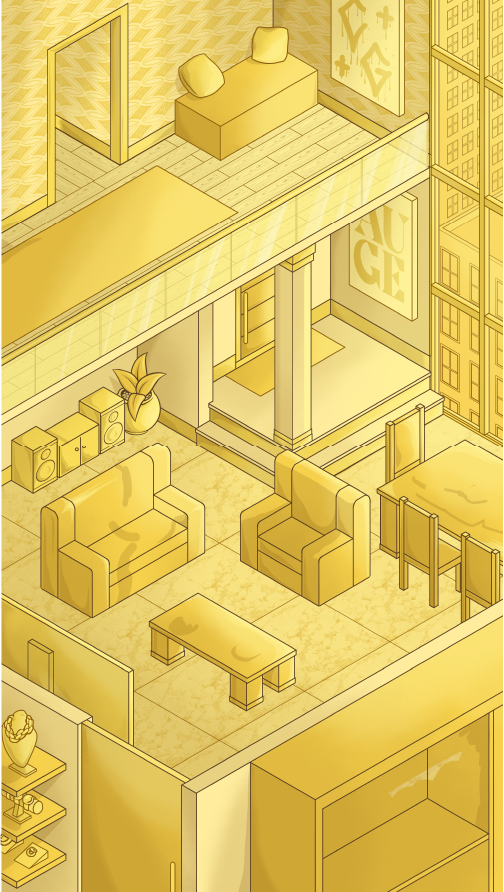
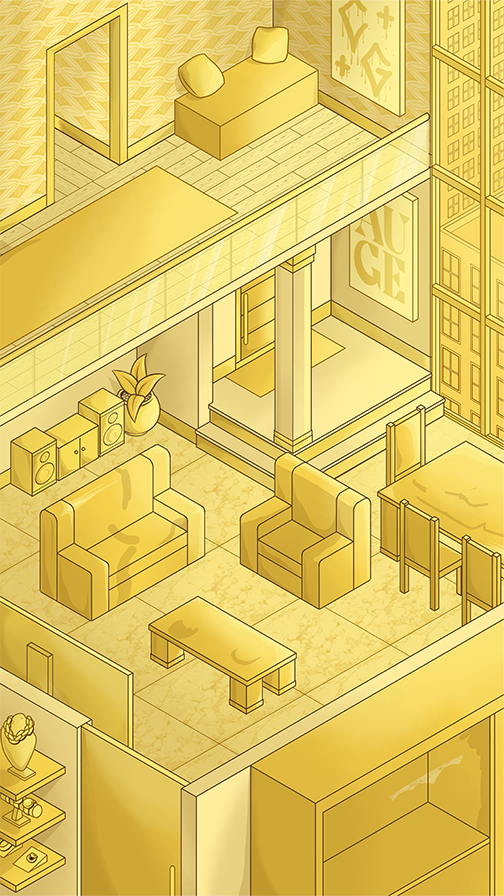
[ FEATURE ] Adding elements in the layout mobile.

diff --git a/dist/base.98fd6c19.css b/dist/base.98fd6c19.css
@@ -533,6 +533,11 @@ body {
 		top: 440px;
 		left: 83px;
 	}
+
+	.wrapper-person-01 .highlight {
+		top: 40px;
+		left: 98px;
+	}
 }
 
 #person01 {
@@ -602,6 +607,11 @@ body {
 		top: 469px;
 		left: 247px;
 	}
+
+	.wrapper-person-02 .highlight {
+		top: 13px;
+		left: 104px;
+	}	
 }
 
 #person02 {
@@ -734,6 +744,7 @@ body {
 	height: 100%;
 }
 
+
 .wrapper-vitrola {
 	width: 203px;
     height: 144px;
@@ -752,6 +763,20 @@ body {
 	position: absolute;
     top: -85px;
     left: 61px;
+}
+
+@media screen and (max-width: 480px) {
+	.wrapper-vitrola {
+		width: 55px;
+		height: 40px;
+		top: 454px;
+		left: 54px;
+	}
+
+	.wrapper-vitrola .highlight {
+		top: -39px;
+    	left: -1px;
+	}
 }
 
 #vitrola {
@@ -775,6 +800,20 @@ body {
 	display: none;
 }
 
+@media screen and (max-width: 480px) {
+	.wrapper-money {
+		width: 100px;
+		height: 100px;
+		top: 517px;
+		right: 0;
+	}
+
+	.wrapper-money .highlight {
+		top: -35px;
+		left: 30px;
+	}
+}
+
 #money {
 	width: 100%;
 	height: 100%;
@@ -794,6 +833,20 @@ body {
     left: 158px;
 
 	display: none;
+}
+
+@media screen and (max-width: 480px) {
+	.wrapper-estatua {
+		width: 83px;
+		height: 115px;
+		top: 635px;
+		right: 72px;
+	}
+
+	.wrapper-estatua .highlight {
+		top: -12px;
+		left: 40px;
+	}
 }
 
 .wrapper-estatua svg {
@@ -817,6 +870,20 @@ body {
 	display: none;
 }
 
+@media screen and (max-width: 480px) {
+	.wrapper-cinzeiro {
+		width: 32px;
+		height: 30px;
+		top: 716px;
+		right: 269px;
+	}
+	
+	.wrapper-cinzeiro .highlight {
+		top: -14px;
+    	left: 20px;
+	}
+}
+
 #cinzeiro {
 	width: 100%;
 	height: 100%;
@@ -836,6 +903,21 @@ body {
     top: 60px;
 }
 
+@media screen and (max-width: 480px) {
+	.wrapper-caixinha {
+		width: 24px;
+		height: 52px;
+		top: 656px;
+		right: 338px;
+	}
+	
+	.wrapper-caixinha .highlight {
+		position: absolute;
+		left: -40px;
+		top: -13px;
+	}
+}
+
 .wrapper-caixinha svg {
 	width: 100%;
 	height: 100%;
@@ -853,6 +935,20 @@ body {
 	position: absolute;
     bottom: -37px;
     left: -30px;
+}
+
+@media screen and (max-width: 480px) {
+	.wrapper-controle {
+		width: 43px;
+		height: 42px;
+		top: 681px;
+		right: 289px;
+	}
+	
+	.wrapper-controle .highlight {
+		bottom: -21px;
+		left: -25px;
+	}
 }
 
 .wrapper-controle svg {

diff --git a/src/css/base.css b/src/css/base.css
@@ -533,6 +533,11 @@ body {
 		top: 440px;
 		left: 83px;
 	}
+
+	.wrapper-person-01 .highlight {
+		top: 40px;
+		left: 98px;
+	}
 }
 
 #person01 {
@@ -602,6 +607,11 @@ body {
 		top: 469px;
 		left: 247px;
 	}
+
+	.wrapper-person-02 .highlight {
+		top: 13px;
+		left: 104px;
+	}	
 }
 
 #person02 {
@@ -734,6 +744,7 @@ body {
 	height: 100%;
 }
 
+
 .wrapper-vitrola {
 	width: 203px;
     height: 144px;
@@ -752,6 +763,20 @@ body {
 	position: absolute;
     top: -85px;
     left: 61px;
+}
+
+@media screen and (max-width: 480px) {
+	.wrapper-vitrola {
+		width: 55px;
+		height: 40px;
+		top: 454px;
+		left: 54px;
+	}
+
+	.wrapper-vitrola .highlight {
+		top: -39px;
+    	left: -1px;
+	}
 }
 
 #vitrola {
@@ -775,6 +800,20 @@ body {
 	display: none;
 }
 
+@media screen and (max-width: 480px) {
+	.wrapper-money {
+		width: 100px;
+		height: 100px;
+		top: 517px;
+		right: 0;
+	}
+
+	.wrapper-money .highlight {
+		top: -35px;
+		left: 30px;
+	}
+}
+
 #money {
 	width: 100%;
 	height: 100%;
@@ -794,6 +833,20 @@ body {
     left: 158px;
 
 	display: none;
+}
+
+@media screen and (max-width: 480px) {
+	.wrapper-estatua {
+		width: 83px;
+		height: 115px;
+		top: 635px;
+		right: 72px;
+	}
+
+	.wrapper-estatua .highlight {
+		top: -12px;
+		left: 40px;
+	}
 }
 
 .wrapper-estatua svg {
@@ -817,6 +870,20 @@ body {
 	display: none;
 }
 
+@media screen and (max-width: 480px) {
+	.wrapper-cinzeiro {
+		width: 32px;
+		height: 30px;
+		top: 716px;
+		right: 269px;
+	}
+	
+	.wrapper-cinzeiro .highlight {
+		top: -14px;
+    	left: 20px;
+	}
+}
+
 #cinzeiro {
 	width: 100%;
 	height: 100%;
@@ -836,6 +903,21 @@ body {
     top: 60px;
 }
 
+@media screen and (max-width: 480px) {
+	.wrapper-caixinha {
+		width: 24px;
+		height: 52px;
+		top: 656px;
+		right: 338px;
+	}
+	
+	.wrapper-caixinha .highlight {
+		position: absolute;
+		left: -40px;
+		top: -13px;
+	}
+}
+
 .wrapper-caixinha svg {
 	width: 100%;
 	height: 100%;
@@ -853,6 +935,20 @@ body {
 	position: absolute;
     bottom: -37px;
     left: -30px;
+}
+
+@media screen and (max-width: 480px) {
+	.wrapper-controle {
+		width: 43px;
+		height: 42px;
+		top: 681px;
+		right: 289px;
+	}
+	
+	.wrapper-controle .highlight {
+		bottom: -21px;
+		left: -25px;
+	}
 }
 
 .wrapper-controle svg {

diff --git a/dist/demo3.b516845c.js b/dist/demo3.b516845c.js
@@ -5889,7 +5889,7 @@ var parent = module.bundle.parent;
 if ((!parent || !parent.isParcelRequire) && typeof WebSocket !== 'undefined') {
   var hostname = "" || location.hostname;
   var protocol = location.protocol === 'https:' ? 'wss' : 'ws';
-  var ws = new WebSocket(protocol + '://' + hostname + ':' + "56571" + '/');
+  var ws = new WebSocket(protocol + '://' + hostname + ':' + "57967" + '/');
 
   ws.onmessage = function (event) {
     checkedAssets = {};

diff --git a/dist/background-move.38c9047b.js b/dist/background-move.38c9047b.js
@@ -157,7 +157,7 @@ var parent = module.bundle.parent;
 if ((!parent || !parent.isParcelRequire) && typeof WebSocket !== 'undefined') {
   var hostname = "" || location.hostname;
   var protocol = location.protocol === 'https:' ? 'wss' : 'ws';
-  var ws = new WebSocket(protocol + '://' + hostname + ':' + "56571" + '/');
+  var ws = new WebSocket(protocol + '://' + hostname + ':' + "57967" + '/');
 
   ws.onmessage = function (event) {
     checkedAssets = {};

diff --git a/dist/base.98fd6c19.js b/dist/base.98fd6c19.js
@@ -217,7 +217,7 @@ var parent = module.bundle.parent;
 if ((!parent || !parent.isParcelRequire) && typeof WebSocket !== 'undefined') {
   var hostname = "" || location.hostname;
   var protocol = location.protocol === 'https:' ? 'wss' : 'ws';
-  var ws = new WebSocket(protocol + '://' + hostname + ':' + "56571" + '/');
+  var ws = new WebSocket(protocol + '://' + hostname + ':' + "57967" + '/');
 
   ws.onmessage = function (event) {
     checkedAssets = {};

diff --git a/dist/index.js b/dist/index.js
@@ -212,7 +212,7 @@ var parent = module.bundle.parent;
 if ((!parent || !parent.isParcelRequire) && typeof WebSocket !== 'undefined') {
   var hostname = "" || location.hostname;
   var protocol = location.protocol === 'https:' ? 'wss' : 'ws';
-  var ws = new WebSocket(protocol + '://' + hostname + ':' + "56571" + '/');
+  var ws = new WebSocket(protocol + '://' + hostname + ':' + "57967" + '/');
 
   ws.onmessage = function (event) {
     checkedAssets = {};
